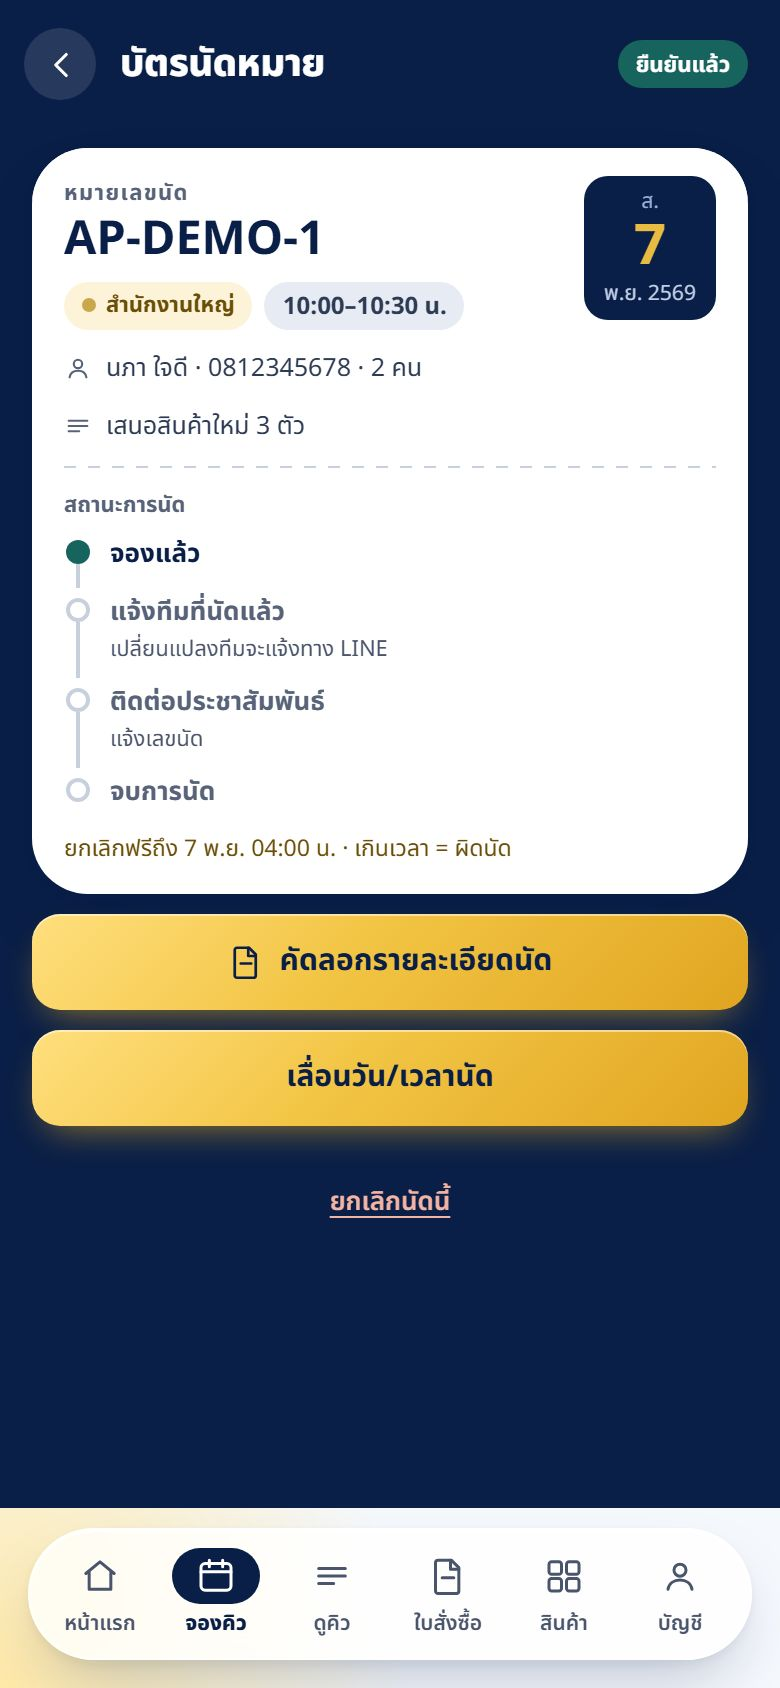
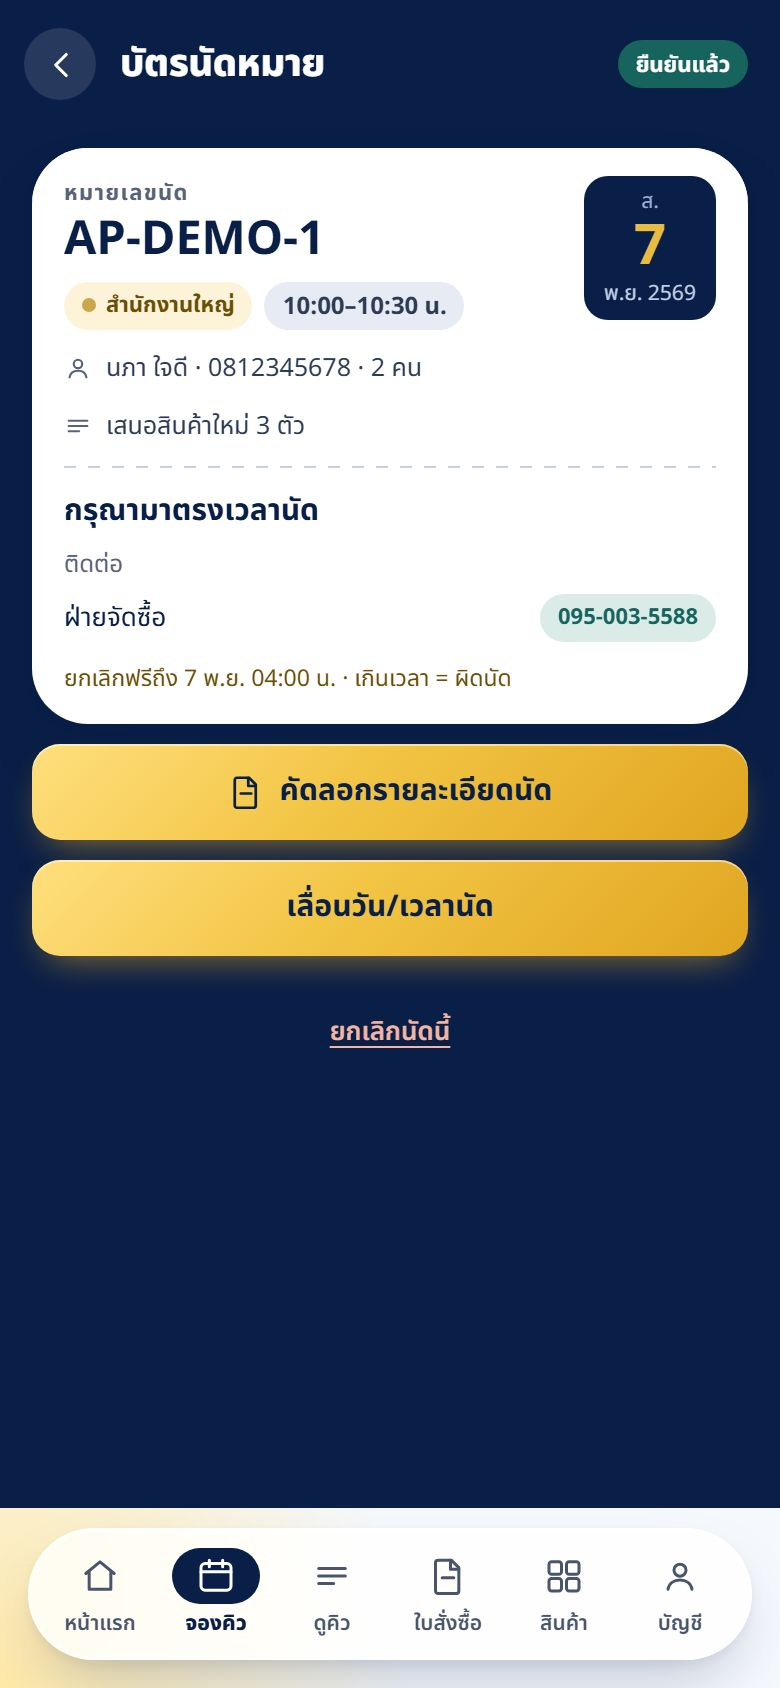
SupplyLink guide v1.13.1: บัตรนัดเบอร์จัดซื้อ

Changed region(s): [[0.0308, 0.2773, 0.9846, 0.6777], [0.4308, 0.7085, 0.5846, 0.7393]]

diff --git a/supplylink-guide.html b/supplylink-guide.html
@@ -3,7 +3,7 @@
 <head>
 <meta charset="utf-8">
 <meta name="viewport" content="width=device-width,initial-scale=1,viewport-fit=cover">
-<title>ฝึกใช้ SupplyLink v1.13.0</title>
+<title>ฝึกใช้ SupplyLink v1.13.1</title>
 <link rel="preconnect" href="https://fonts.googleapis.com">
 <link href="https://fonts.googleapis.com/css2?family=Noto+Sans+Thai:wght@400;500;600;700&display=swap" rel="stylesheet">
 <style>
@@ -138,7 +138,7 @@ button{font:inherit;cursor:pointer}
 
 <script>
 (function () {
-  var VER = 'v1.13.0', APP = 'https://liff.line.me/2011693023-xbdsN1K7';
+  var VER = 'v1.13.1', APP = 'https://liff.line.me/2011693023-xbdsN1K7';
   var IMG = {"h0":"supplylink-guide/h0.jpg","hinc":"supplylink-guide/hinc.jpg","hdef":"supplylink-guide/hdef.jpg","hpo":"supplylink-guide/hpo.jpg","s2":"supplylink-guide/s2.jpg","s4":"supplylink-guide/s4.jpg","s5":"supplylink-guide/s5.jpg","s6":"supplylink-guide/s6.jpg","s7":"supplylink-guide/s7.jpg","s9":"supplylink-guide/s9.jpg","s10":"supplylink-guide/s10.jpg","s11":"supplylink-guide/s11.jpg","z1":"supplylink-guide/z1.jpg","zm":"supplylink-guide/zm.jpg","zt":"supplylink-guide/zt.jpg","zs":"supplylink-guide/zs.jpg","zi":"supplylink-guide/zi.jpg","q1":"supplylink-guide/q1.jpg","q2":"supplylink-guide/q2.jpg","q3":"supplylink-guide/q3.jpg","q4":"supplylink-guide/q4.jpg","q5":"supplylink-guide/q5.jpg","q6":"supplylink-guide/q6.jpg","q7":"supplylink-guide/q7.jpg","q8":"supplylink-guide/q8.jpg","x1":"supplylink-guide/x1.jpg","x2":"supplylink-guide/x2.jpg","x3":"supplylink-guide/x3.jpg","x4":"supplylink-guide/x4.jpg","x5":"supplylink-guide/x5.jpg","x6":"supplylink-guide/x6.jpg","x7":"supplylink-guide/x7.jpg","a2":"supplylink-guide/a2.jpg","a3":"supplylink-guide/a3.jpg","a5":"supplylink-guide/a5.jpg","d2":"supplylink-guide/d2.jpg","a4":"supplylink-guide/a4.jpg","d3":"supplylink-guide/d3.jpg","d4":"supplylink-guide/d4.jpg","p1":"supplylink-guide/p1.jpg","p1b":"supplylink-guide/p1b.jpg","b2":"supplylink-guide/b2.jpg","b3":"supplylink-guide/b3.jpg","p5":"supplylink-guide/p5.jpg","c2":"supplylink-guide/c2.jpg","c3":"supplylink-guide/c3.jpg","k1":"supplylink-guide/k1.jpg","k2":"supplylink-guide/k2.jpg","k3":"supplylink-guide/k3.jpg","k4":"supplylink-guide/k4.jpg","k5":"supplylink-guide/k5.jpg","k6":"supplylink-guide/k6.jpg","k7":"supplylink-guide/k7.jpg","k9":"supplylink-guide/k9.jpg","k10":"supplylink-guide/k10.jpg","k11":"supplylink-guide/k11.jpg","n1":"supplylink-guide/n1.jpg","n2":"supplylink-guide/n2.jpg","n3":"supplylink-guide/n3.jpg","n4":"supplylink-guide/n4.jpg","n5":"supplylink-guide/n5.jpg","n6":"supplylink-guide/n6.jpg","n7":"supplylink-guide/n7.jpg","n8":"supplylink-guide/n8.jpg","n9":"supplylink-guide/n9.jpg","g1":"supplylink-guide/g1.jpg","g2":"supplylink-guide/g2.jpg","g3":"supplylink-guide/g3.jpg","g4":"supplylink-guide/g4.jpg","m1":"supplylink-guide/m1.jpg","m2":"supplylink-guide/m2.jpg","m3":"supplylink-guide/m3.jpg","m4":"supplylink-guide/m4.jpg","m5":"supplylink-guide/m5.jpg","f1":"supplylink-guide/f1.jpg","f2":"supplylink-guide/f2.jpg","f3":"supplylink-guide/f3.jpg","f4":"supplylink-guide/f4.jpg","dws":"supplylink-guide/dws.jpg","dwh":"supplylink-guide/dwh.jpg","stk":"supplylink-guide/stk.jpg","stk2":"supplylink-guide/stk2.jpg","stkh":"supplylink-guide/stkh.jpg","cbi":"supplylink-guide/cbi.jpg","cb1":"supplylink-guide/cb1.jpg","cb2":"supplylink-guide/cb2.jpg","cb3":"supplylink-guide/cb3.jpg","cbp":"supplylink-guide/cbp.jpg","ot0":"supplylink-guide/ot0.jpg","mv1":"supplylink-guide/mv1.jpg","mv2":"supplylink-guide/mv2.jpg","aseq":"supplylink-guide/aseq.jpg","inv1":"supplylink-guide/inv1.jpg","ot1":"supplylink-guide/ot1.jpg","ot2":"supplylink-guide/ot2.jpg","ot3":"supplylink-guide/ot3.jpg"};                                       /* แทนด้วยรูปตอน build */
   var HAND = '<svg class="hand" viewBox="0 0 48 48" aria-hidden="true"><path d="M19 6c2 0 3.5 1.6 3.5 3.6V22l1-.1V18c0-2 1.6-3.4 3.4-3.4S30.3 16 30.3 18v4.4l1-.1v-2.6c0-1.9 1.5-3.3 3.3-3.3s3.3 1.5 3.3 3.3v3.6l.8-.1c1.8 0 3.3 1.5 3.3 3.3V34c0 6.6-5.4 12-12 12h-3.4c-3.8 0-7.4-1.8-9.6-4.9L8.5 30.6c-1-1.4-.7-3.4.7-4.4 1.4-1 3.3-.8 4.4.5l2 2.4V9.6C15.6 7.6 17.1 6 19 6z" fill="#fff" stroke="#0A1F47" stroke-width="2.4" stroke-linejoin="round"/></svg>';
   var FLOWCARD = function () {                              /* ส่งแล้วเกิดอะไรขึ้น: ซัพตอบ → จัดซื้อยืนยัน → เปิด PO จริง */
@@ -244,7 +244,7 @@ button{font:inherit;cursor:pointer}
       { img:'m3', r:[30, 384, 105, 55], h:'เลือกวันและเวลา', d:'ขึ้นเฉพาะเวลาที่คนนั้นว่าง' },
       { img:'m4', r:[30, 236, 330, 92], h:'พิมพ์เรื่องที่จะคุย', d:'ทีมจะได้เตรียมข้อมูลไว้ก่อน แตะช่องนี้', fx:'type', fxt:'ขอปรับราคา' },
       { img:'m5', r:[16, 686, 358, 52], h:'กด "ยืนยันการนัด"', d:'ได้บัตรนัดทันที ทีมจะยืนยันกลับทาง LINE' },
-      { img:'mv1', r:[16, 515, 358, 48], h:'เลื่อนนัด', d:'บัตรนัด › เลื่อนวัน/เวลานัด · เรื่องที่คุย ผู้ติดต่อ จัดซื้อที่นัด ติดไปให้หมด เลือกวันเวลาใหม่อย่างเดียว' },
+      { img:'mv1', r:[16, 430, 358, 48], h:'เลื่อนนัด', d:'บัตรนัดบอกเบอร์จัดซื้อที่นัด (กรุณามาตรงเวลา) · เลื่อน: บัตรนัด › เลื่อนวัน/เวลานัด · เรื่องที่คุย ผู้ติดต่อ จัดซื้อที่นัด ติดไปให้หมด เลือกวันเวลาใหม่อย่างเดียว' },
       { img:'mv2', r:[16, 83, 358, 153], h:'ยืนยันเลื่อน', d:'ยืนยันแล้วนัดเดิมยกเลิกให้เอง ไม่หลุดคิว · เลื่อนหลังเวลายกเลิกฟรี นับผิดนัด 1 ครั้ง · คิวลงสินค้าเลื่อนเองไม่ได้ ติดต่อจัดซื้อ' }
     ], end:'วันนัดติดต่อที่ประชาสัมพันธ์ แจ้งเลขนัด · วางบิลใช้ขั้นเดียวกัน แค่เลือก "บัญชี" ตั้งแต่ขั้นแรก' },
     { k:'defect', t:'เคลียร์ของเสีย', g:'เคลียร์ของเสีย', s:'เลือกวิธี เลือกวัน · ตอบเหตุผล', n:7, steps:[
